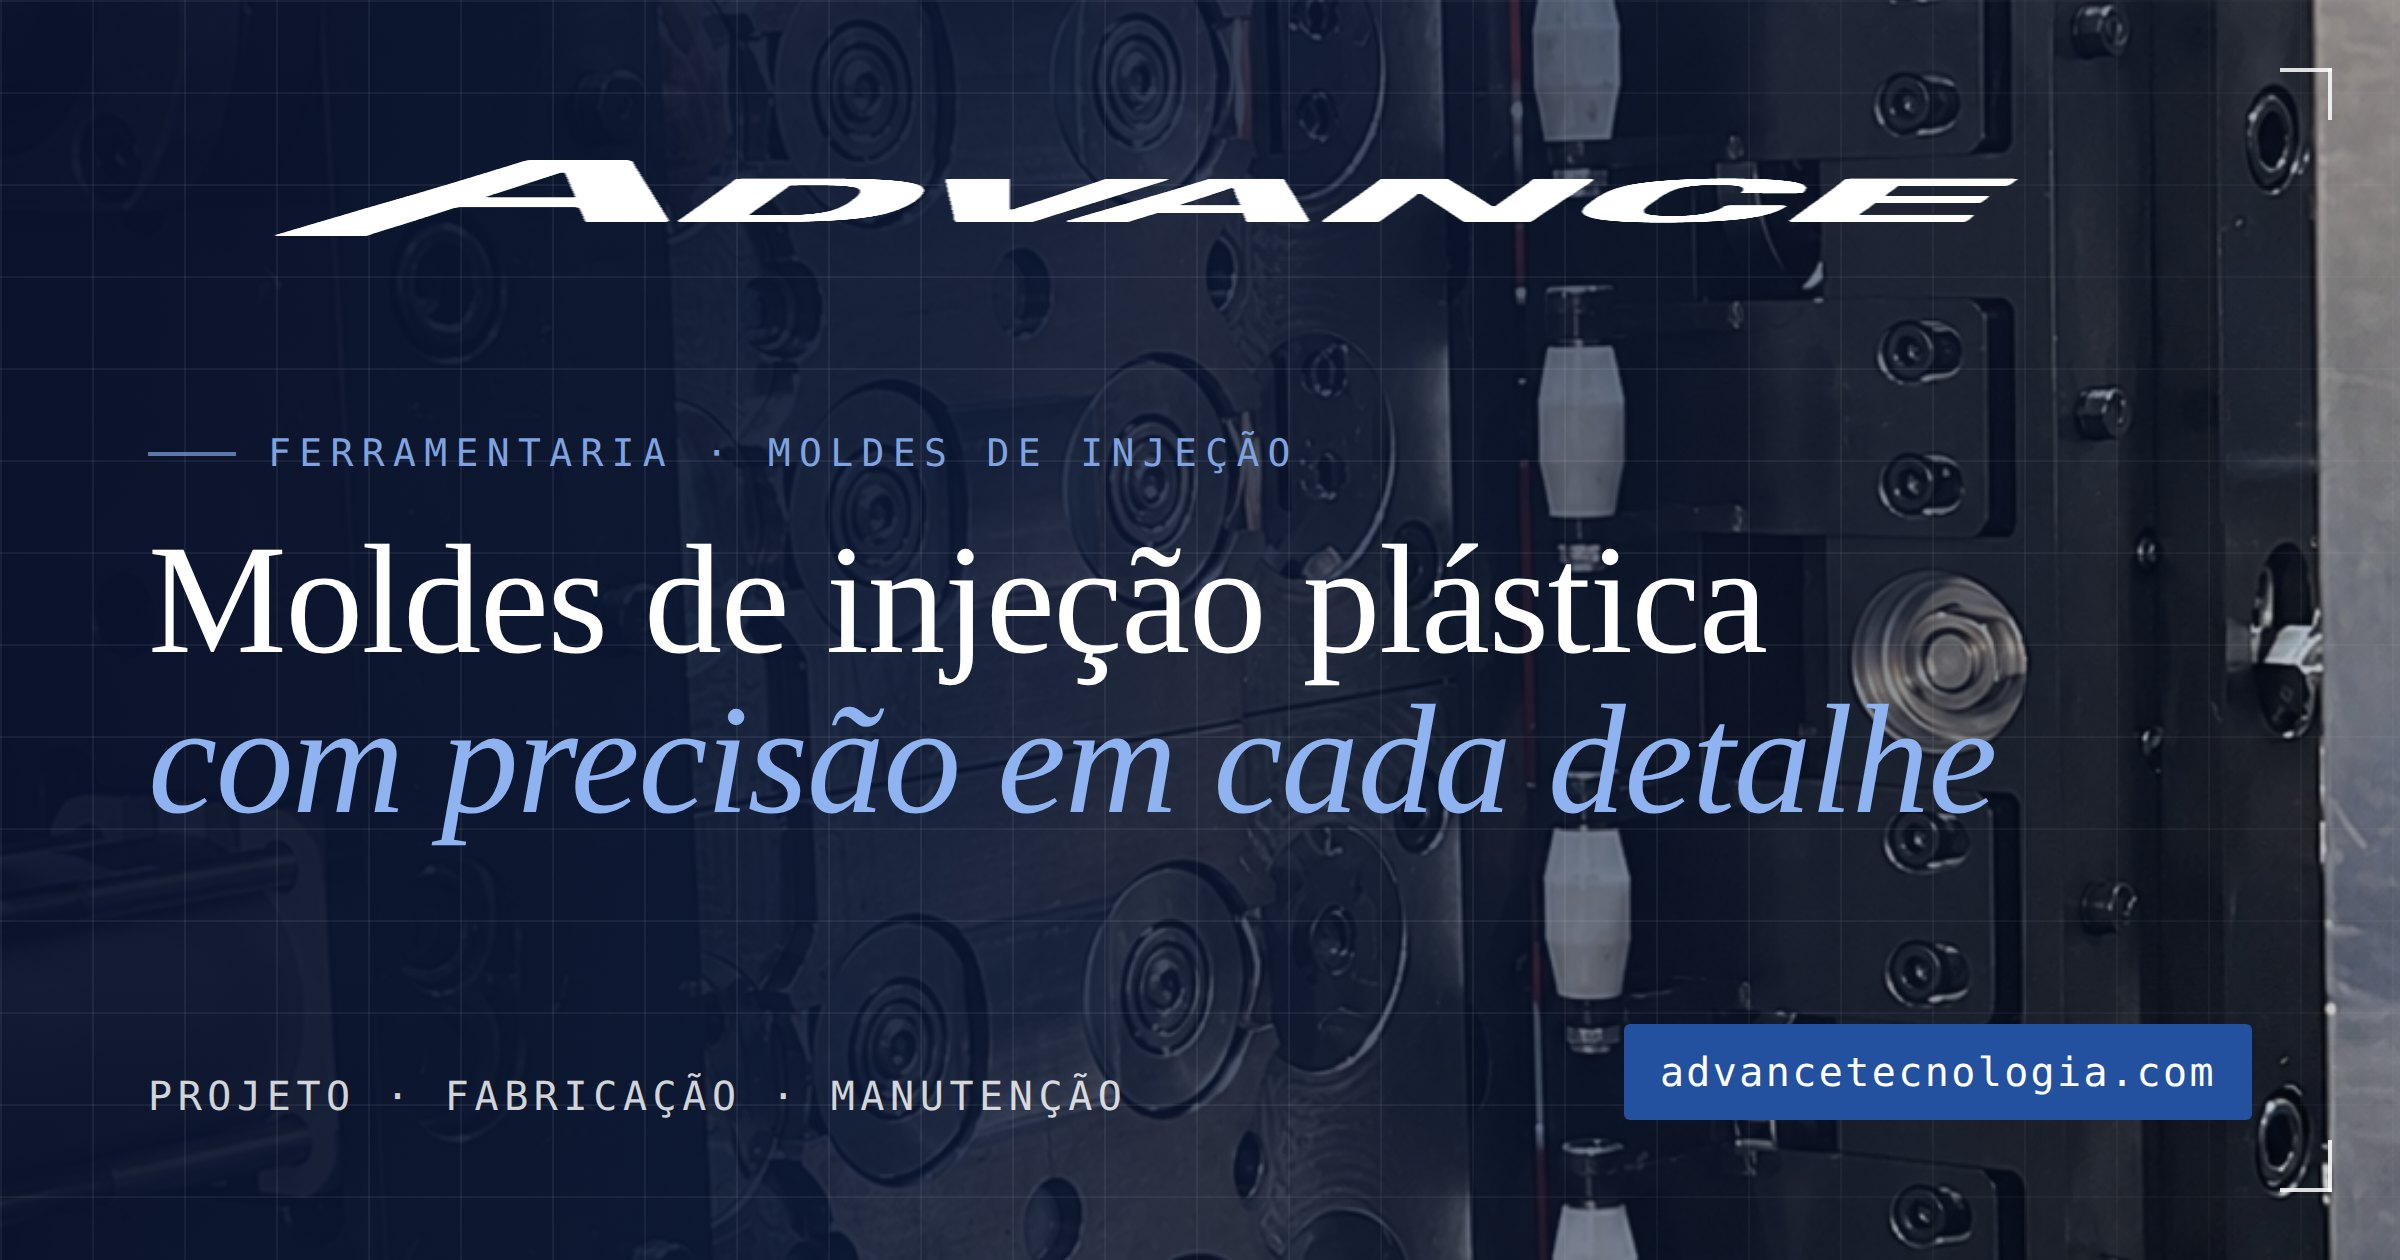
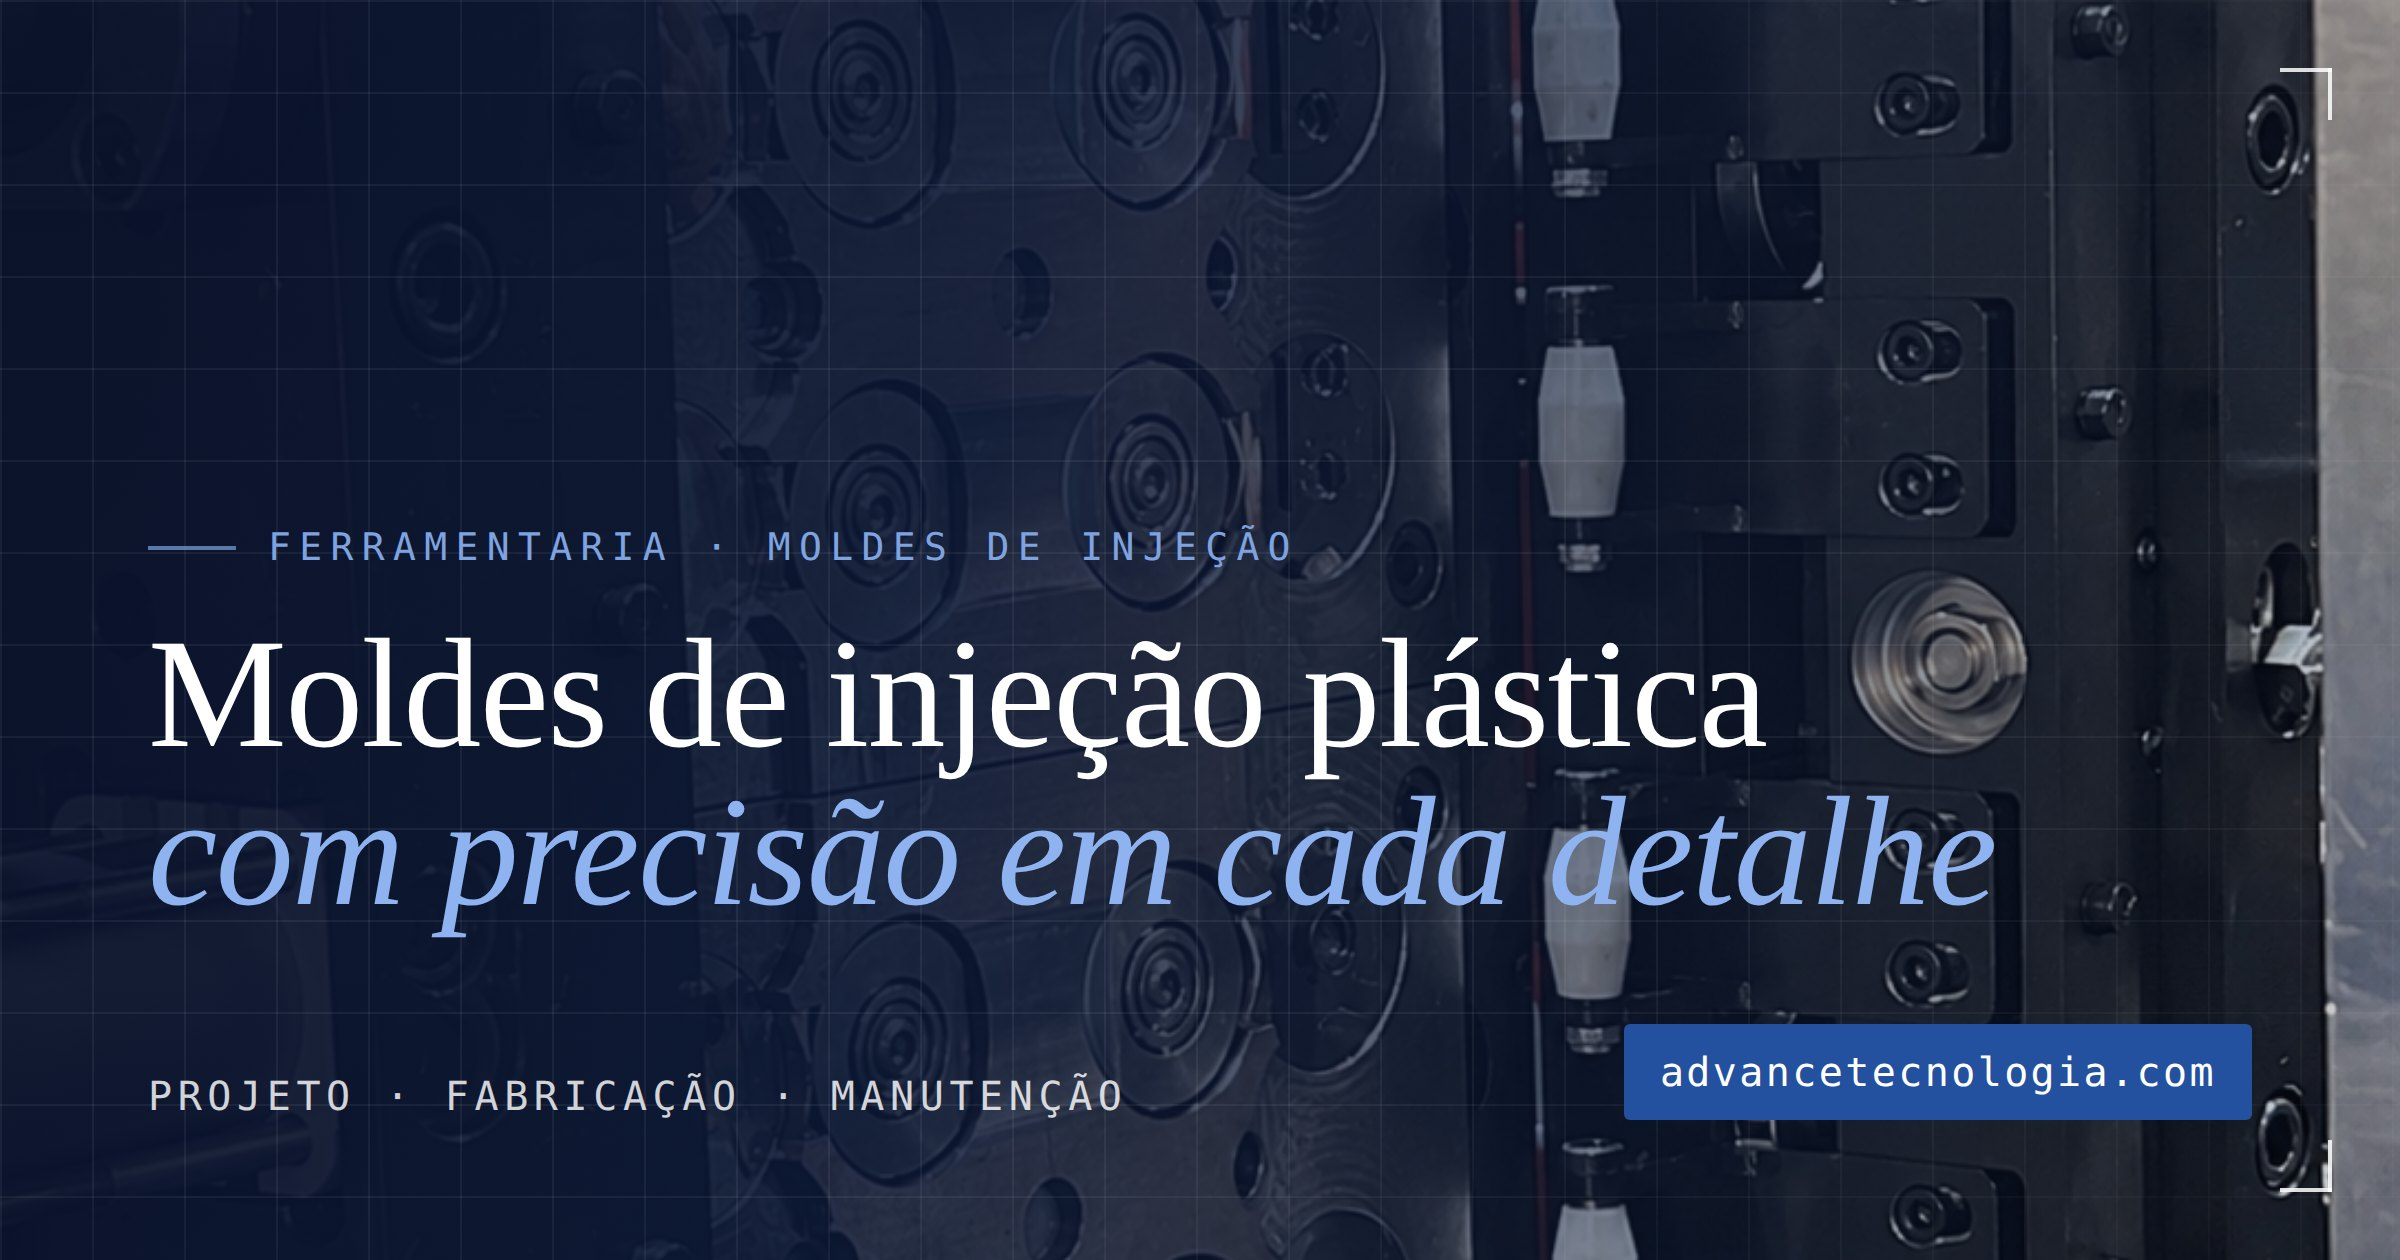
fix(site): ajustes de hero, posicionamento, serviços e thumb OG
- Hero: selo agora usa travessão no lugar da bolinha.
- Posicionamento: números/labels não são mais cortados no desktop
  (fonte responsiva + quebra de palavra segura).
- Serviços: pills de capacidades ganham rótulo "Capacidades" e
  divisória, deixando de parecer soltos.
- Thumb OG (WhatsApp): remove o wordmark branco; mantém molde,
  título e URL.

Claude-Session: https://claude.ai/code/session_012ZjqeARHV4tLH6U61JGDzb

diff --git a/src/app/(site)/site.css b/src/app/(site)/site.css
@@ -256,12 +256,7 @@
   border-radius: 2px;
   margin-bottom: 28px;
 }
-#site .s-hero__tag i {
-  width: 7px; height: 7px; border-radius: 50%;
-  background: var(--s-blue); display: inline-block;
-  box-shadow: 0 0 0 0 rgba(35, 80, 159, 0.5);
-  animation: s-pulse 2.4s infinite;
-}
+#site .s-hero__tag-dash { color: var(--s-blue); font-weight: 500; }
 #site .s-hero__title {
   font-family: var(--font-serif);
   font-weight: 500;
@@ -394,9 +389,9 @@
 }
 #site .s-position__statement b { color: var(--s-blue); font-weight: 500; }
 #site .s-stats { display: grid; grid-template-columns: 1fr 1fr; gap: 1px; background: var(--s-line); border: 1px solid var(--s-line); border-radius: 2px; overflow: hidden; }
-#site .s-stat { background: var(--s-paper); padding: 26px 24px; }
-#site .s-stat .n { font-family: var(--font-serif); font-size: clamp(1.9rem, 3vw, 2.6rem); line-height: 1; color: var(--s-blue-ink); }
-#site .s-stat .l { font-family: var(--font-mono); font-size: 11.5px; letter-spacing: 0.08em; text-transform: uppercase; color: var(--s-ink-3); margin-top: 12px; line-height: 1.5; }
+#site .s-stat { background: var(--s-paper); padding: 24px 22px; min-width: 0; }
+#site .s-stat .n { font-family: var(--font-serif); font-size: clamp(1.35rem, 0.9rem + 1.4vw, 1.85rem); line-height: 1.1; color: var(--s-blue-ink); overflow-wrap: break-word; }
+#site .s-stat .l { font-family: var(--font-mono); font-size: 11.5px; letter-spacing: 0.06em; text-transform: uppercase; color: var(--s-ink-3); margin-top: 12px; line-height: 1.5; overflow-wrap: break-word; }
 
 /* ============================ SERVICES (editorial) ============================ */
 #site .s-svc { display: flex; flex-direction: column; gap: clamp(56px, 7vw, 104px); margin-top: clamp(48px, 6vw, 88px); }
@@ -423,12 +418,20 @@
 #site .s-svc__k { font-family: var(--font-mono); font-size: 12px; letter-spacing: 0.2em; color: var(--s-blue); }
 #site .s-svc__title { font-family: var(--font-serif); font-weight: 500; font-size: clamp(1.5rem, 2.6vw, 2.1rem); line-height: 1.12; margin: 14px 0 16px; letter-spacing: -0.01em; }
 #site .s-svc__desc { color: var(--s-ink-2); }
-#site .s-svc__list { list-style: none; margin: 22px 0 0; padding: 0; display: flex; flex-wrap: wrap; gap: 10px; }
-#site .s-svc__list li {
-  font-family: var(--font-mono); font-size: 12px; letter-spacing: 0.04em;
-  color: var(--s-ink-2); border: 1px solid var(--s-line-2); border-radius: 2px;
-  padding: 7px 12px; background: var(--s-paper);
+#site .s-svc__specs { margin-top: 28px; padding-top: 22px; border-top: 1px solid var(--s-line); }
+#site .s-svc__specs-label {
+  display: block; font-family: var(--font-mono); font-size: 11px;
+  letter-spacing: 0.18em; text-transform: uppercase; color: var(--s-ink-3);
+  margin-bottom: 14px;
 }
+#site .s-svc__list { list-style: none; margin: 0; padding: 0; display: flex; flex-wrap: wrap; gap: 8px; }
+#site .s-svc__list li {
+  font-family: var(--font-mono); font-size: 12px; letter-spacing: 0.03em;
+  color: var(--s-ink-2); border: 1px solid var(--s-line); border-radius: 2px;
+  padding: 8px 13px; background: var(--s-paper-2);
+  transition: border-color 0.2s, color 0.2s;
+}
+#site .s-svc__list li:hover { border-color: var(--s-blue); color: var(--s-blue-ink); }
 
 /* ============================ ENGINEERING (dark) ============================ */
 #site .s-eng {

diff --git a/src/app/(site)/site/page.tsx b/src/app/(site)/site/page.tsx
@@ -181,7 +181,8 @@ export default function SitePage() {
           <div className="s-hero__grid">
             <div className="s-hero__copy">
               <span className="s-hero__tag reveal">
-                <i /> Advance Tecnologia · Ferramentaria
+                <span className="s-hero__tag-dash" aria-hidden="true">—</span>{" "}
+                Advance Tecnologia · Ferramentaria
               </span>
               <h1 className="s-hero__title reveal d1">
                 Moldes de injeção plástica
@@ -302,11 +303,14 @@ export default function SitePage() {
                     <span className="s-svc__k">{s.k} — {s.tag}</span>
                     <h3 className="s-svc__title">{s.title}</h3>
                     <p className="s-svc__desc s-lead">{s.desc}</p>
-                    <ul className="s-svc__list">
-                      {s.tags.map((t) => (
-                        <li key={t}>{t}</li>
-                      ))}
-                    </ul>
+                    <div className="s-svc__specs">
+                      <span className="s-svc__specs-label">Capacidades</span>
+                      <ul className="s-svc__list">
+                        {s.tags.map((t) => (
+                          <li key={t}>{t}</li>
+                        ))}
+                      </ul>
+                    </div>
                   </div>
                 </article>
               ))}
